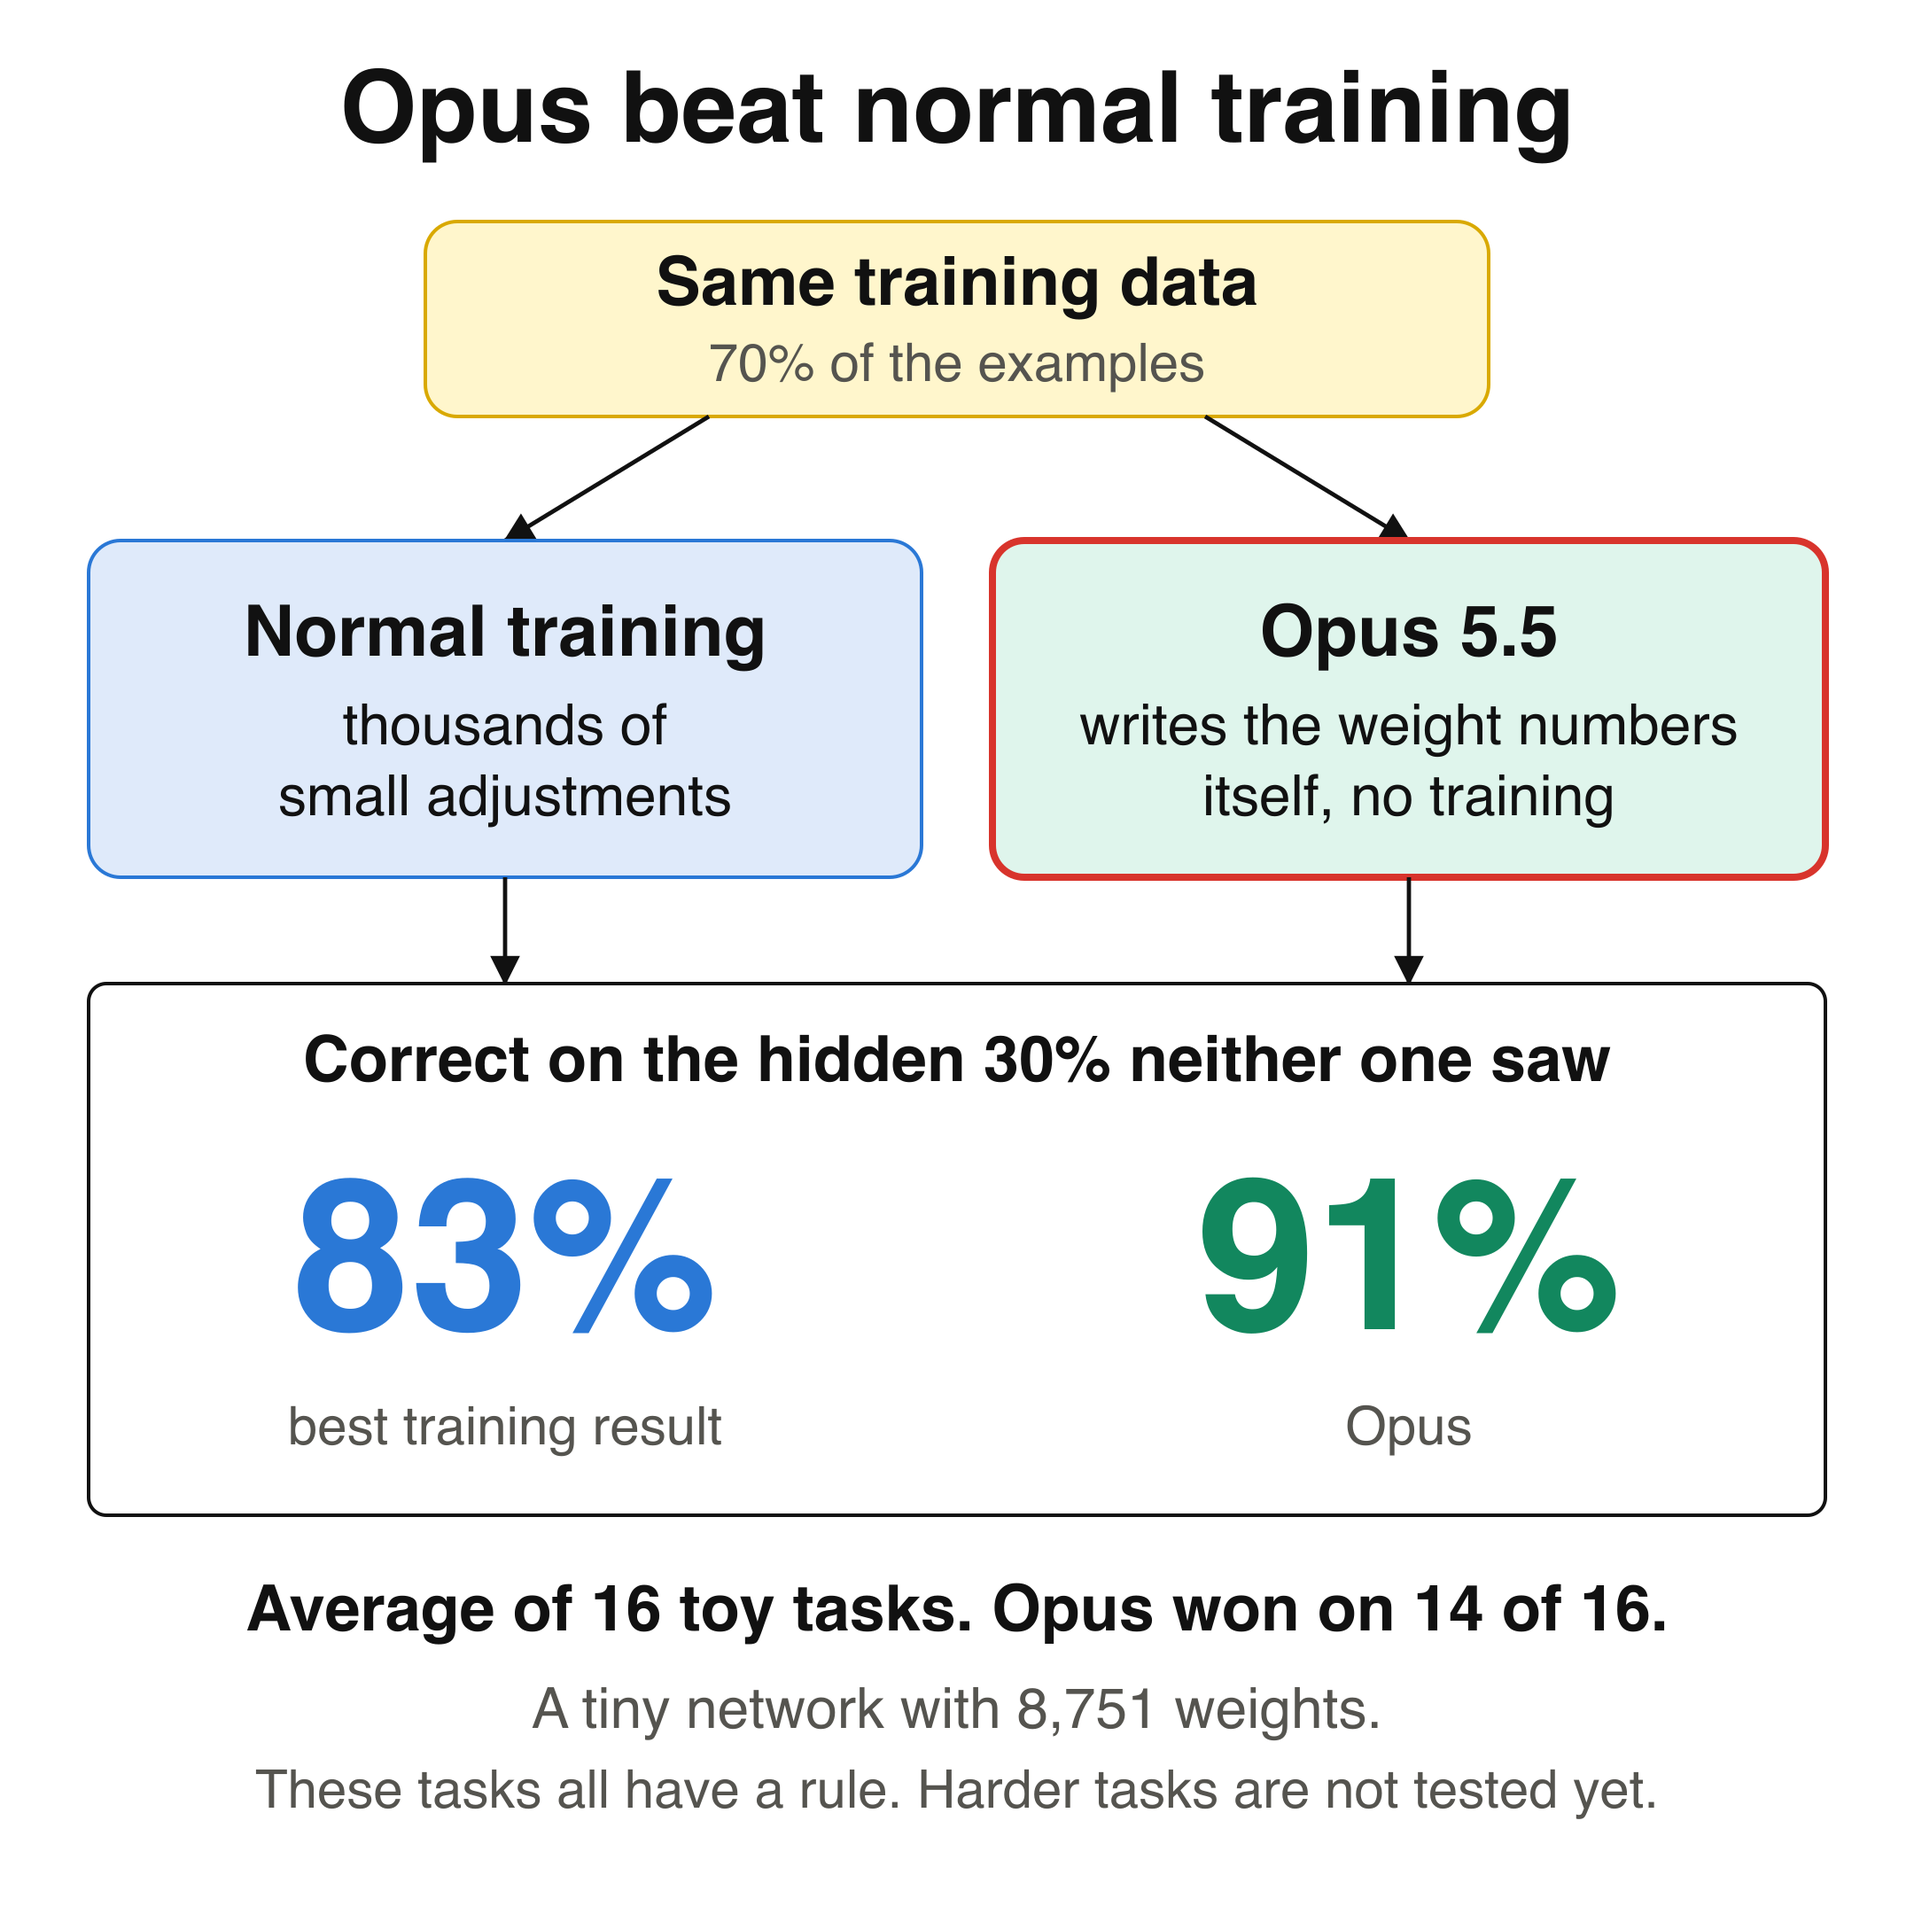
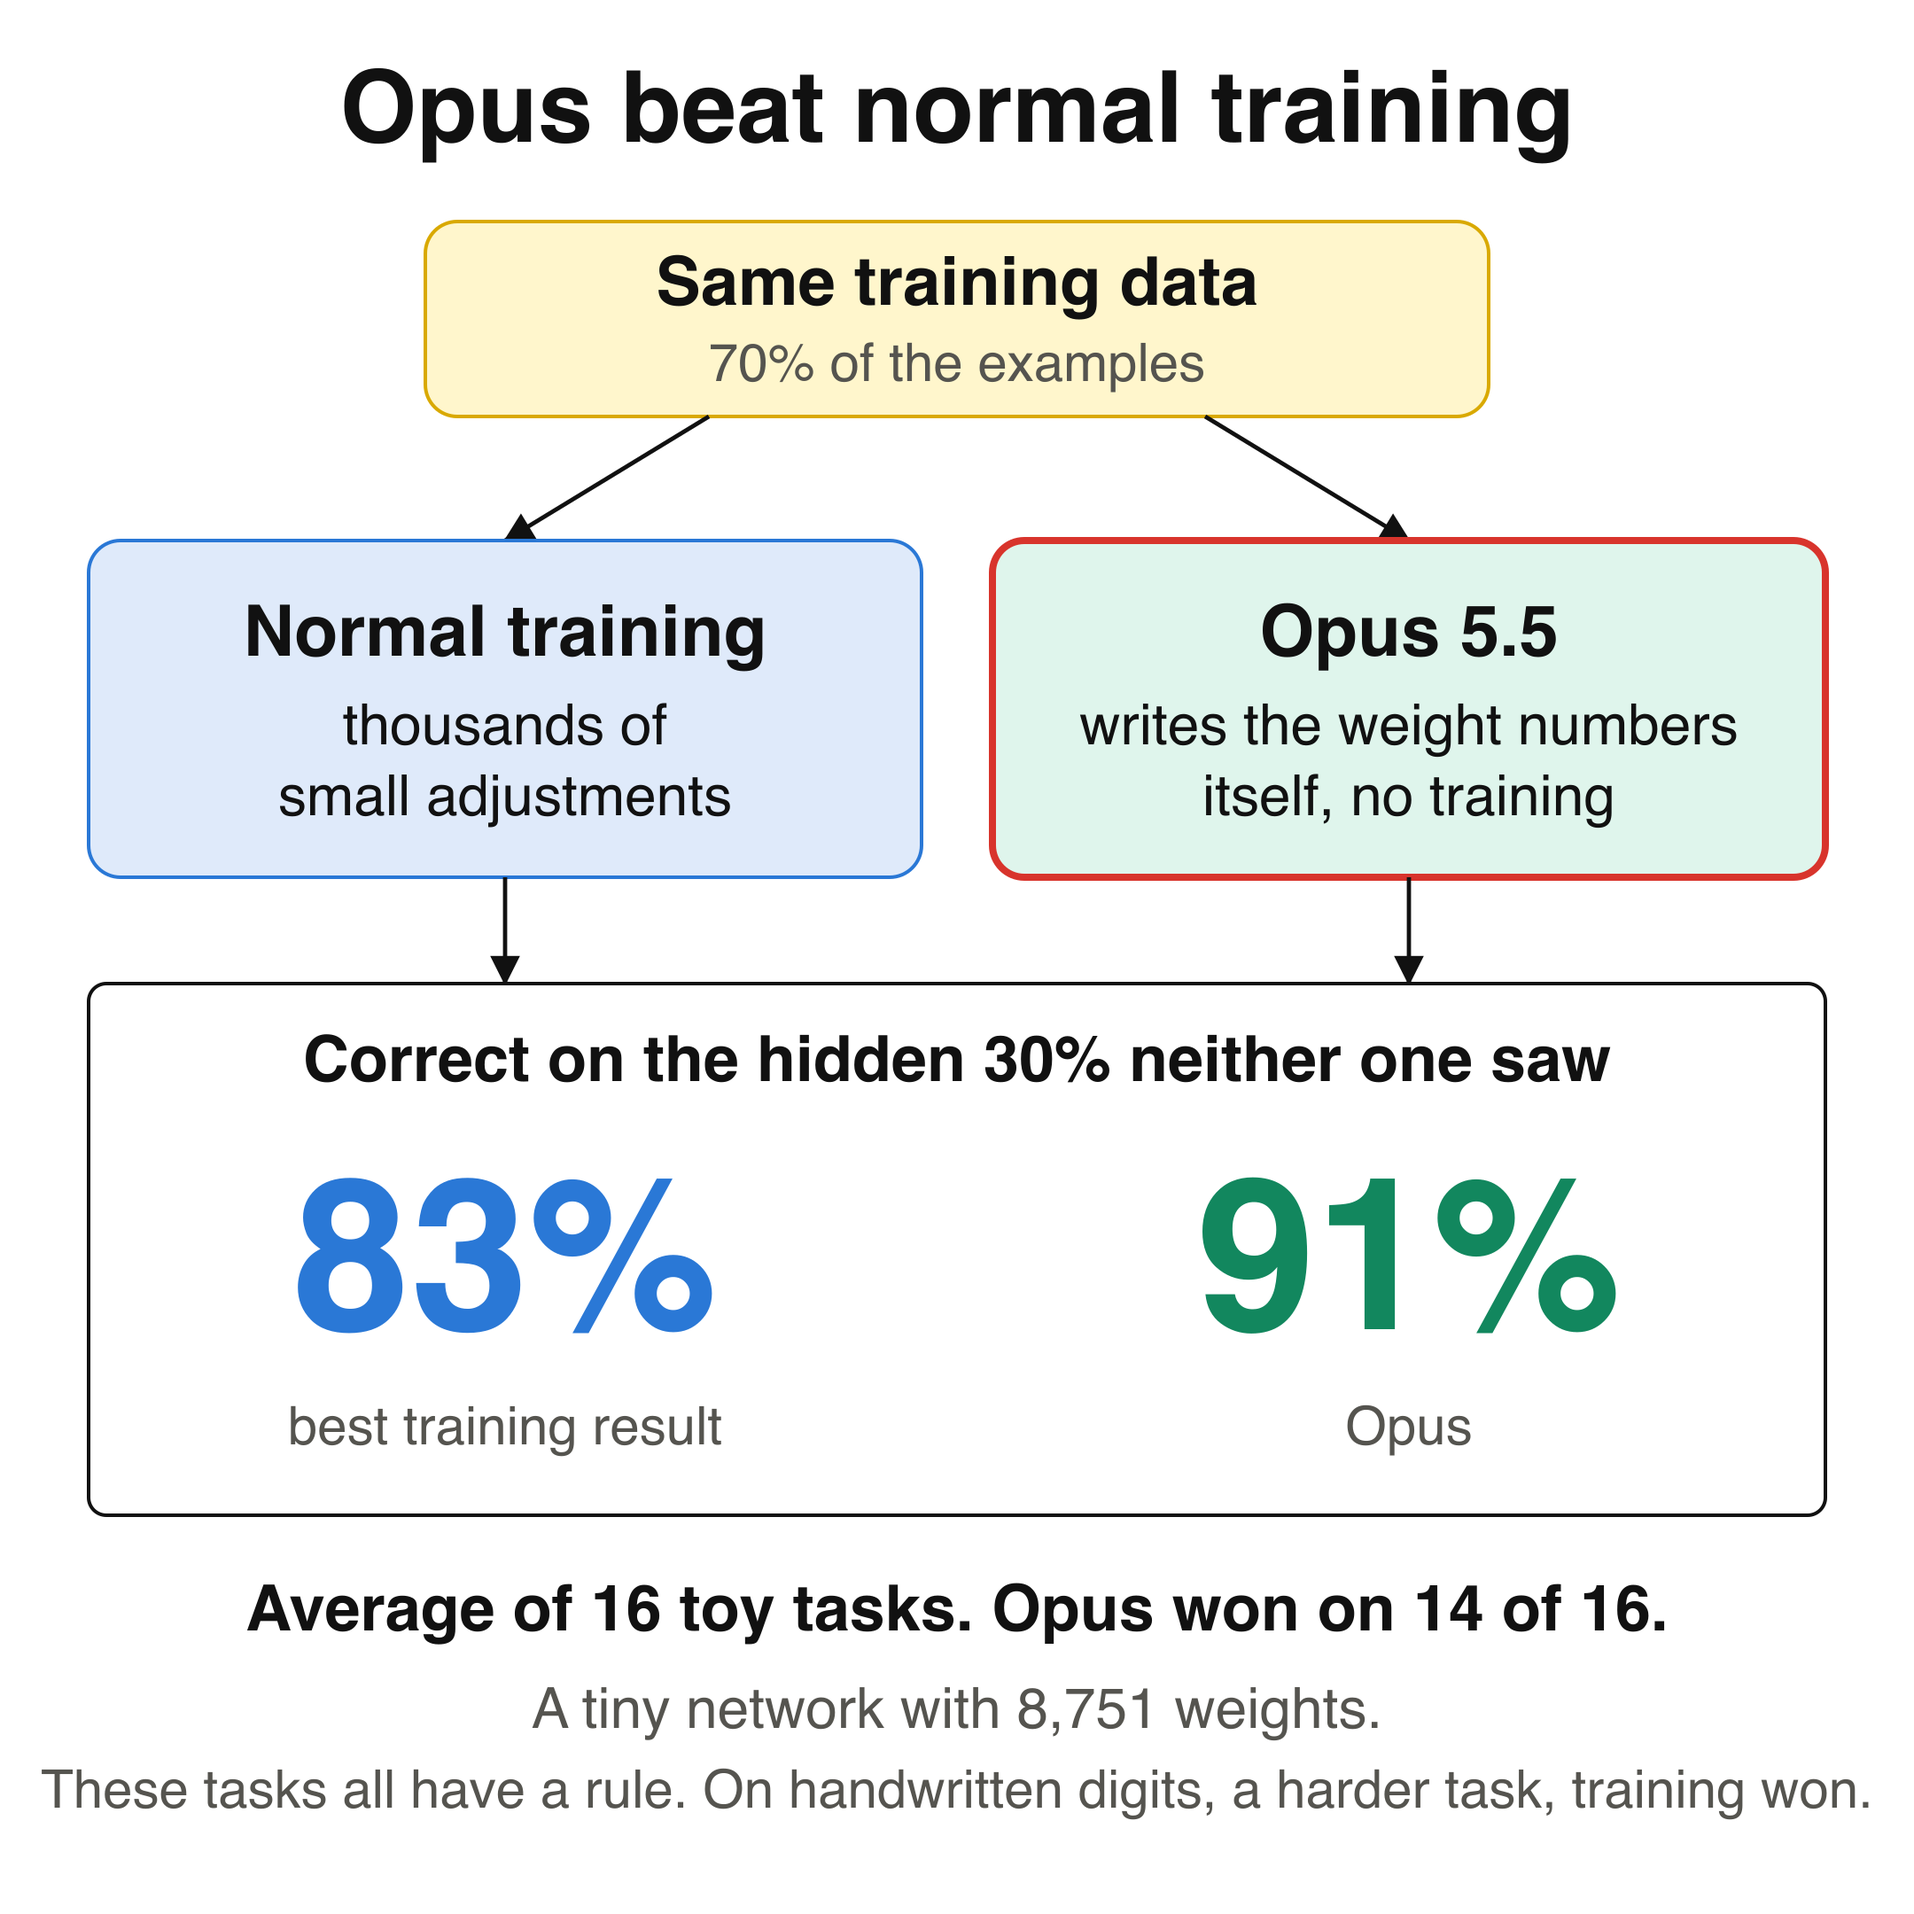
Main chart: name the digits result under the 16 tasks

Changed region(s): [[0.031, 0.9306, 0.9616, 0.9616]]

diff --git a/simple_charts.py b/simple_charts.py
@@ -21,7 +21,7 @@ f.box(560, 305, 470, 190, G, RED, 4); f.text(795, 370, "Opus 5.5", 40, "bold"); 
 f.arrow((285, 495), (285, 555)); f.arrow((795, 495), (795, 555))
 f.box(50, 555, 980, 300, ("#111111", "#ffffff"), sw=2, r=10); f.text(540, 610, "Correct on the hidden 30% neither one saw", 36, "bold")
 f.text(285, 750, "83%", 120, "bold", B[0]); f.text(795, 750, "91%", 120, "bold", "#12875e"); f.text(285, 815, "best training result", 30, fill=MUTE); f.text(795, 815, "Opus", 30, fill=MUTE)
-f.text(540, 920, "Average of 16 toy tasks. Opus won on 14 of 16.", 36, "bold"); f.text(540, 975, "A tiny network with 8,751 weights.", 32, fill=MUTE); f.text(540, 1020, "These tasks all have a rule. Harder tasks are not tested yet.", 30, fill=MUTE)
+f.text(540, 920, "Average of 16 toy tasks. Opus won on 14 of 16.", 36, "bold"); f.text(540, 975, "A tiny network with 8,751 weights.", 32, fill=MUTE); f.text(540, 1020, "These tasks all have a rule. On handwritten digits, a harder task, training won.", 30, fill=MUTE)
 f.save("charts/result")
 
 f = Fig()
